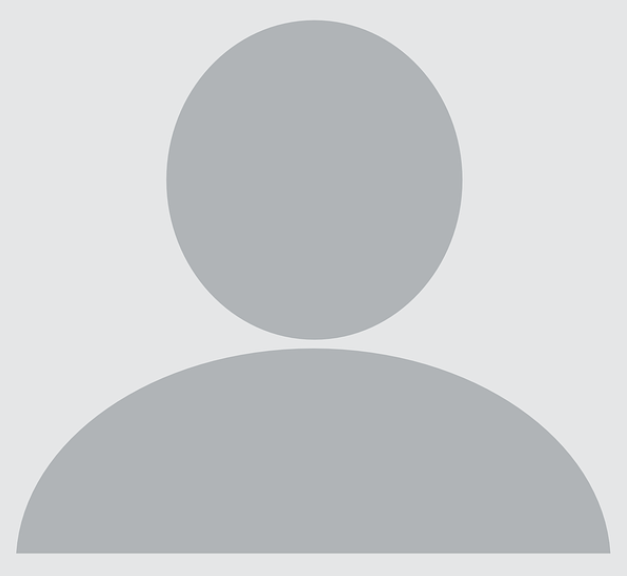
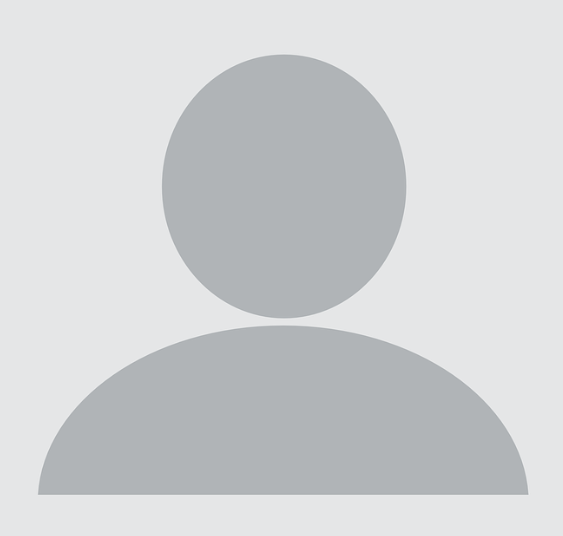
Updated globalChallenge and verbatastic pages to ensure the correct profile pictures of the respective users on global challenge stats are shown.

diff --git a/lib/screens/verbatastic.dart b/lib/screens/verbatastic.dart
@@ -1,20 +1,28 @@
+import 'dart:convert';
 import 'dart:math';
 import 'package:google_fonts/google_fonts.dart';
 import 'package:flutter/material.dart';
 import 'package:flutter/services.dart';
+import 'package:verbatim_frontend/BackendService%202.dart';
 import 'package:verbatim_frontend/Components/shared_prefs.dart';
+import 'package:verbatim_frontend/screens/addFriend.dart';
+import 'package:verbatim_frontend/widgets/firebase_download_image.dart';
 import 'package:verbatim_frontend/widgets/my_button_with_svg.dart';
 import 'package:verbatim_frontend/widgets/size.dart';
+import 'package:http/http.dart' as http;
 
 class Verbatastic extends StatelessWidget {
   final String verbatimedWord;
   final String formattedTimeUntilMidnight;
   final List<String>? verbatasticUsernames;
+  final List<User>? verbatasticUserObjects;
 
-  const Verbatastic({super.key, 
+  const Verbatastic({
+    super.key,
     required this.verbatimedWord,
     required this.formattedTimeUntilMidnight,
     required this.verbatasticUsernames,
+    required this.verbatasticUserObjects,
   });
 
   void copyInvite() {
@@ -82,44 +90,48 @@ class Verbatastic extends StatelessWidget {
         ),
         const SizedBox(height: 10),
         Center(
-            child: verbatasticUsernames!.isEmpty
-                ? SizedBox(
-                    width: 100,
-                    height: 48,
+          child: verbatasticUsernames!.isEmpty
+              ? SizedBox(
+                  width: 100,
+                  height: 48,
+                  child: Stack(
+                    children: [
+                      Positioned(
+                        top: 0,
+                        left: 30.0,
+                        child: Image.asset(
+                          'assets/Ellipse ${41}.png',
+                          height: 48,
+                        ),
+                      ),
+                    ],
+                  ),
+                )
+              : Center(
+                  child: SizedBox(
+                    width: min(verbatasticUsernames!.length + 1, 6) * 38,
+                    height: 45,
                     child: Stack(
                       children: [
-                        Positioned(
-                          top: 0,
-                          left: 30.0,
-                          child: Image.asset(
-                            'assets/Ellipse ${41}.png',
-                            height: 48,
+                        for (int i = 0;
+                            i <
+                                min(verbatasticUserObjects!.length,
+                                    6); // Limit loop to the length of the list
+                            i++)
+                          Positioned(
+                            top: 0,
+                            left: 30.0 * i,
+                            child: FirebaseStorageImage(
+                              profileUrl:
+                                  verbatasticUserObjects![i].profilePicture,
+                              user: verbatasticUserObjects![i],
+                            ),
                           ),
-                        ),
                       ],
                     ),
-                  )
-                : Center(
-                    child: SizedBox(
-                      width: min(verbatasticUsernames!.length + 1, 6) * 38,
-                      height: 45,
-                      child: Stack(
-                        children: [
-                          for (int i = 0;
-                              i < min(verbatasticUsernames!.length + 1, 6);
-                              i++)
-                            Positioned(
-                              top: 0,
-                              left: 30.0 * i,
-                              child: Image.asset(
-                                'assets/Ellipse ${41 + i}.png',
-                                height: 45,
-                              ),
-                            ),
-                        ],
-                      ),
-                    ),
-                  )),
+                  ),
+                ),
+        ),
         const SizedBox(height: 10),
         SizedBox(
           width: 200,

diff --git a/lib/screens/globalChallenge.dart b/lib/screens/globalChallenge.dart
@@ -1,5 +1,6 @@
 import 'package:flutter/material.dart';
 import 'package:verbatim_frontend/BackendService.dart';
+import 'package:verbatim_frontend/screens/addFriend.dart';
 import 'sideBar.dart';
 import 'package:http/http.dart' as http;
 import 'dart:convert';
@@ -70,9 +71,10 @@ class _GlobalChallengeState extends State<globalChallenge> {
   List<String> responses123 = [];
 
   Map<String, List<String>?> verbatasticUsers = {};
-  List<String>? verbatasticUsernames = [];
+  List<String> verbatasticUsernames = [];
   List<String> modResponse = [];
   String verbatimedWord = "";
+  List<User> verbatasticUserObjects = [];
 
   Map<String, dynamic> statsQ1 = {
     "firstMostPopular": "",
@@ -162,6 +164,35 @@ class _GlobalChallengeState extends State<globalChallenge> {
     }
   }
 
+  // get all users to display
+  Future<void> getVerbatasticUserObjects() async {
+    final url = Uri.parse('${BackendService.getBackendUrl()}users');
+    final response = await http.get(url);
+
+    if (response.statusCode == 200) {
+      final List<dynamic> data = json.decode(response.body);
+
+      final List<User> userList =
+          data.map((item) => User.fromJson(item)).toList();
+
+      print("\nUserList is of length: ${userList.length}\n");
+
+      List<String> neededUserNames = verbatasticUsernames;
+      neededUserNames.add(SharedPrefs().getUserName() as String);
+
+      // Users who are verba matches
+      verbatasticUserObjects = userList
+          .where((user) => neededUserNames.contains(user.username))
+          .toList();
+
+      print(
+          "\nReturned verbatasticUsers are ${verbatasticUserObjects.length}\n");
+    } else {
+      print("Failure: ${response.statusCode}");
+      // Handle failure if needed
+    }
+  }
+
   Future<void> _fetchData(String username) async {
     final url = Uri.parse('${BackendService.getBackendUrl()}globalChallenge');
     final headers = <String, String>{'Content-Type': 'application/json'};
@@ -241,7 +272,13 @@ class _GlobalChallengeState extends State<globalChallenge> {
               verbatasticUsers.entries.first;
 
           verbatimedWord = firstEntry.key;
-          verbatasticUsernames = firstEntry.value;
+          verbatasticUsernames = firstEntry.value as List<String>;
+
+          print("\nverbatasticUsernames contains ${verbatasticUsernames}\n");
+          getVerbatasticUserObjects();
+
+          print(
+              "\nverbatasticUserObjects contains ${verbatasticUserObjects.length} user objects\n");
         } else {
           print("verbatasticUsers is empty");
         }
@@ -354,7 +391,7 @@ class _GlobalChallengeState extends State<globalChallenge> {
             verbatasticUsers.entries.first;
 
         verbatimedWord = firstEntry.key;
-        verbatasticUsernames = firstEntry.value;
+        verbatasticUsernames = firstEntry.value as List<String>;
       } else {
         print("verbatasticUsers is empty");
       }
@@ -724,6 +761,8 @@ class _GlobalChallengeState extends State<globalChallenge> {
                                                     formattedTimeUntilMidnight,
                                                 verbatasticUsernames:
                                                     verbatasticUsernames,
+                                                verbatasticUserObjects:
+                                                    verbatasticUserObjects,
                                               ),
                                             ],
                                           );

diff --git a/lib/widgets/firebase_download_image.dart b/lib/widgets/firebase_download_image.dart
@@ -29,12 +29,6 @@ class FirebaseStorageImage extends StatelessWidget {
                   MaterialPageRoute(builder: (context) => Profile(user: user!)),
                 );
               } else {
-                // Navigator.push(
-                //   context,
-                //   MaterialPageRoute(builder: (context) => Profile()),
-
-                // );
-                // SharedPrefs().setCurrentPage('/profile');
                 Navigator.pushNamed(context, '/profile');
               }
             },
@@ -53,11 +47,6 @@ class FirebaseStorageImage extends StatelessWidget {
         } else {
           return GestureDetector(
             onTap: () {
-              // Navigate to the Profile page
-              // Navigator.push(
-              //   context,
-              //   MaterialPageRoute(builder: (context) => Profile()),
-              // );
               Navigator.pushNamed(
                 context,
                 '/profile',
